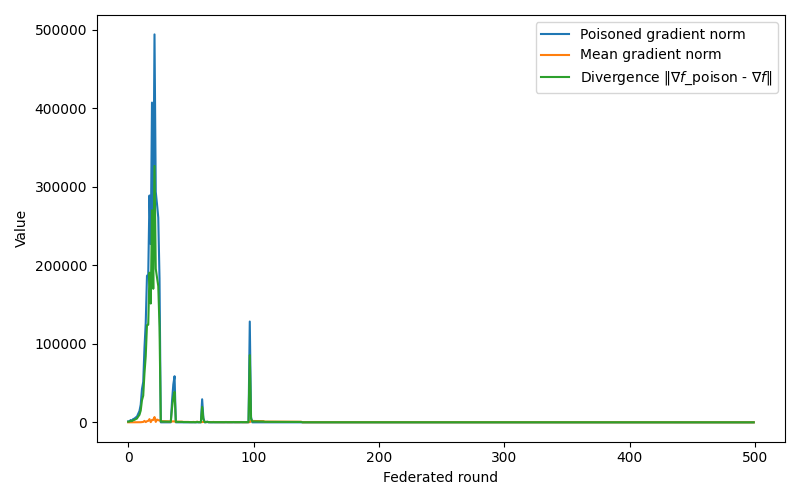
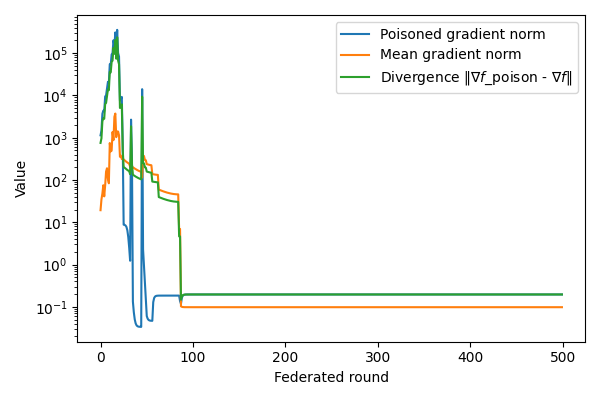
Modification momentum

Changed region(s): [[0.0, 0.03, 0.99, 0.99], [0.57, 0.18, 0.6, 0.21], [0.57, 0.12, 0.6, 0.15]]

diff --git a/Gradient_diverge.py b/Gradient_diverge.py
@@ -10,7 +10,8 @@ output_dim = 2
 batch_size = 16
 num_workers = 3
 num_rounds = 500
-lr = 0.2
+lr = 0.1
+alpha = 0.1  # momentum
 
 # ----- Model -----
 class SimpleMLP(nn.Module):
@@ -30,43 +31,42 @@ def compute_gradients(model, x, y):
     grad_vec = torch.cat([p.grad.view(-1) for p in model.parameters()])
     return grad_vec, loss.item()
 
-
 # ----- Données extrêmes pour worker 1 -----
 torch.manual_seed(0)
 workers_data = [torch.randn(batch_size, input_dim) for _ in range(num_workers)]
-
-# Worker 1 a des données “explosives”
-workers_data[1] = torch.randn(batch_size, input_dim) * 4.0
+workers_data[1] = torch.randn(batch_size, input_dim) * 4
 workers_labels = [torch.randint(0, output_dim, (batch_size,)) for _ in range(num_workers)]
 
-# Tracking
+# ----- Tracking -----
 grad_norm_poisoned = []
 grad_norm_mean = []
 loss_mean_hist = []
 divergence = []
 
-# Federated training loop
-model = SimpleMLP()
+# ----- Affichage norme max des données -----
+for w, x in enumerate(workers_data):
+    max_norm = x.norm(dim=1).max().item()
+    print(f"Worker {w} max input norm: {max_norm:.4f}")
 
+# ----- Federated training loop -----
+model = SimpleMLP()
 for p in model.parameters():
     nn.init.normal_(p, mean=0.0, std=10.0)
+
+# Initialize momentum vector
+momentum = torch.zeros(sum(p.numel() for p in model.parameters()))
 
 for rnd in range(num_rounds):
     gradients = []
     losses = []
     for w in range(num_workers):
         g, loss = compute_gradients(model, workers_data[w], workers_labels[w])
-        
         # STRONG POISONING: amplify malicious gradient heavily
         if w == 1:
             g = g * 20.0
-            
         gradients.append(g)
         losses.append(loss)
     
-    
-    
-
     gradients = torch.stack(gradients)
 
     # Calcul de la moyenne SANS le méchant (worker 1)
@@ -80,21 +80,23 @@ for rnd in range(num_rounds):
     loss_mean_hist.append(sum(losses)/len(losses))
     divergence.append((gradients[1] - mean_grad).norm().item())
     
-    # Apply update
+    # ----- Apply update with momentum -----
+    momentum = alpha * momentum + mean_grad
     idx = 0
     for p in model.parameters():
         num = p.numel()
-        p.data -= lr * mean_grad[idx:idx+num].view_as(p)
+        p.data -= lr * momentum[idx:idx+num].view_as(p)
         idx += num
 
 # ----- Plot -----
-plt.figure(figsize=(8,5))
+plt.figure(figsize=(6,4))
 plt.plot(grad_norm_poisoned, label="Poisoned gradient norm")
 plt.plot(grad_norm_mean, label="Mean gradient norm")
 plt.plot(divergence, label=r"Divergence ‖$\nabla f$_poison - $\nabla f$‖")
 plt.xlabel("Federated round")
 plt.ylabel("Value")
+plt.yscale('log')
 plt.legend()
 plt.tight_layout()
-plt.savefig("plots/09-12-2025_explosion/divergence.png")
+plt.savefig("plots/09-12-2025_explosion/divergence_momentum.png")
 plt.show()
